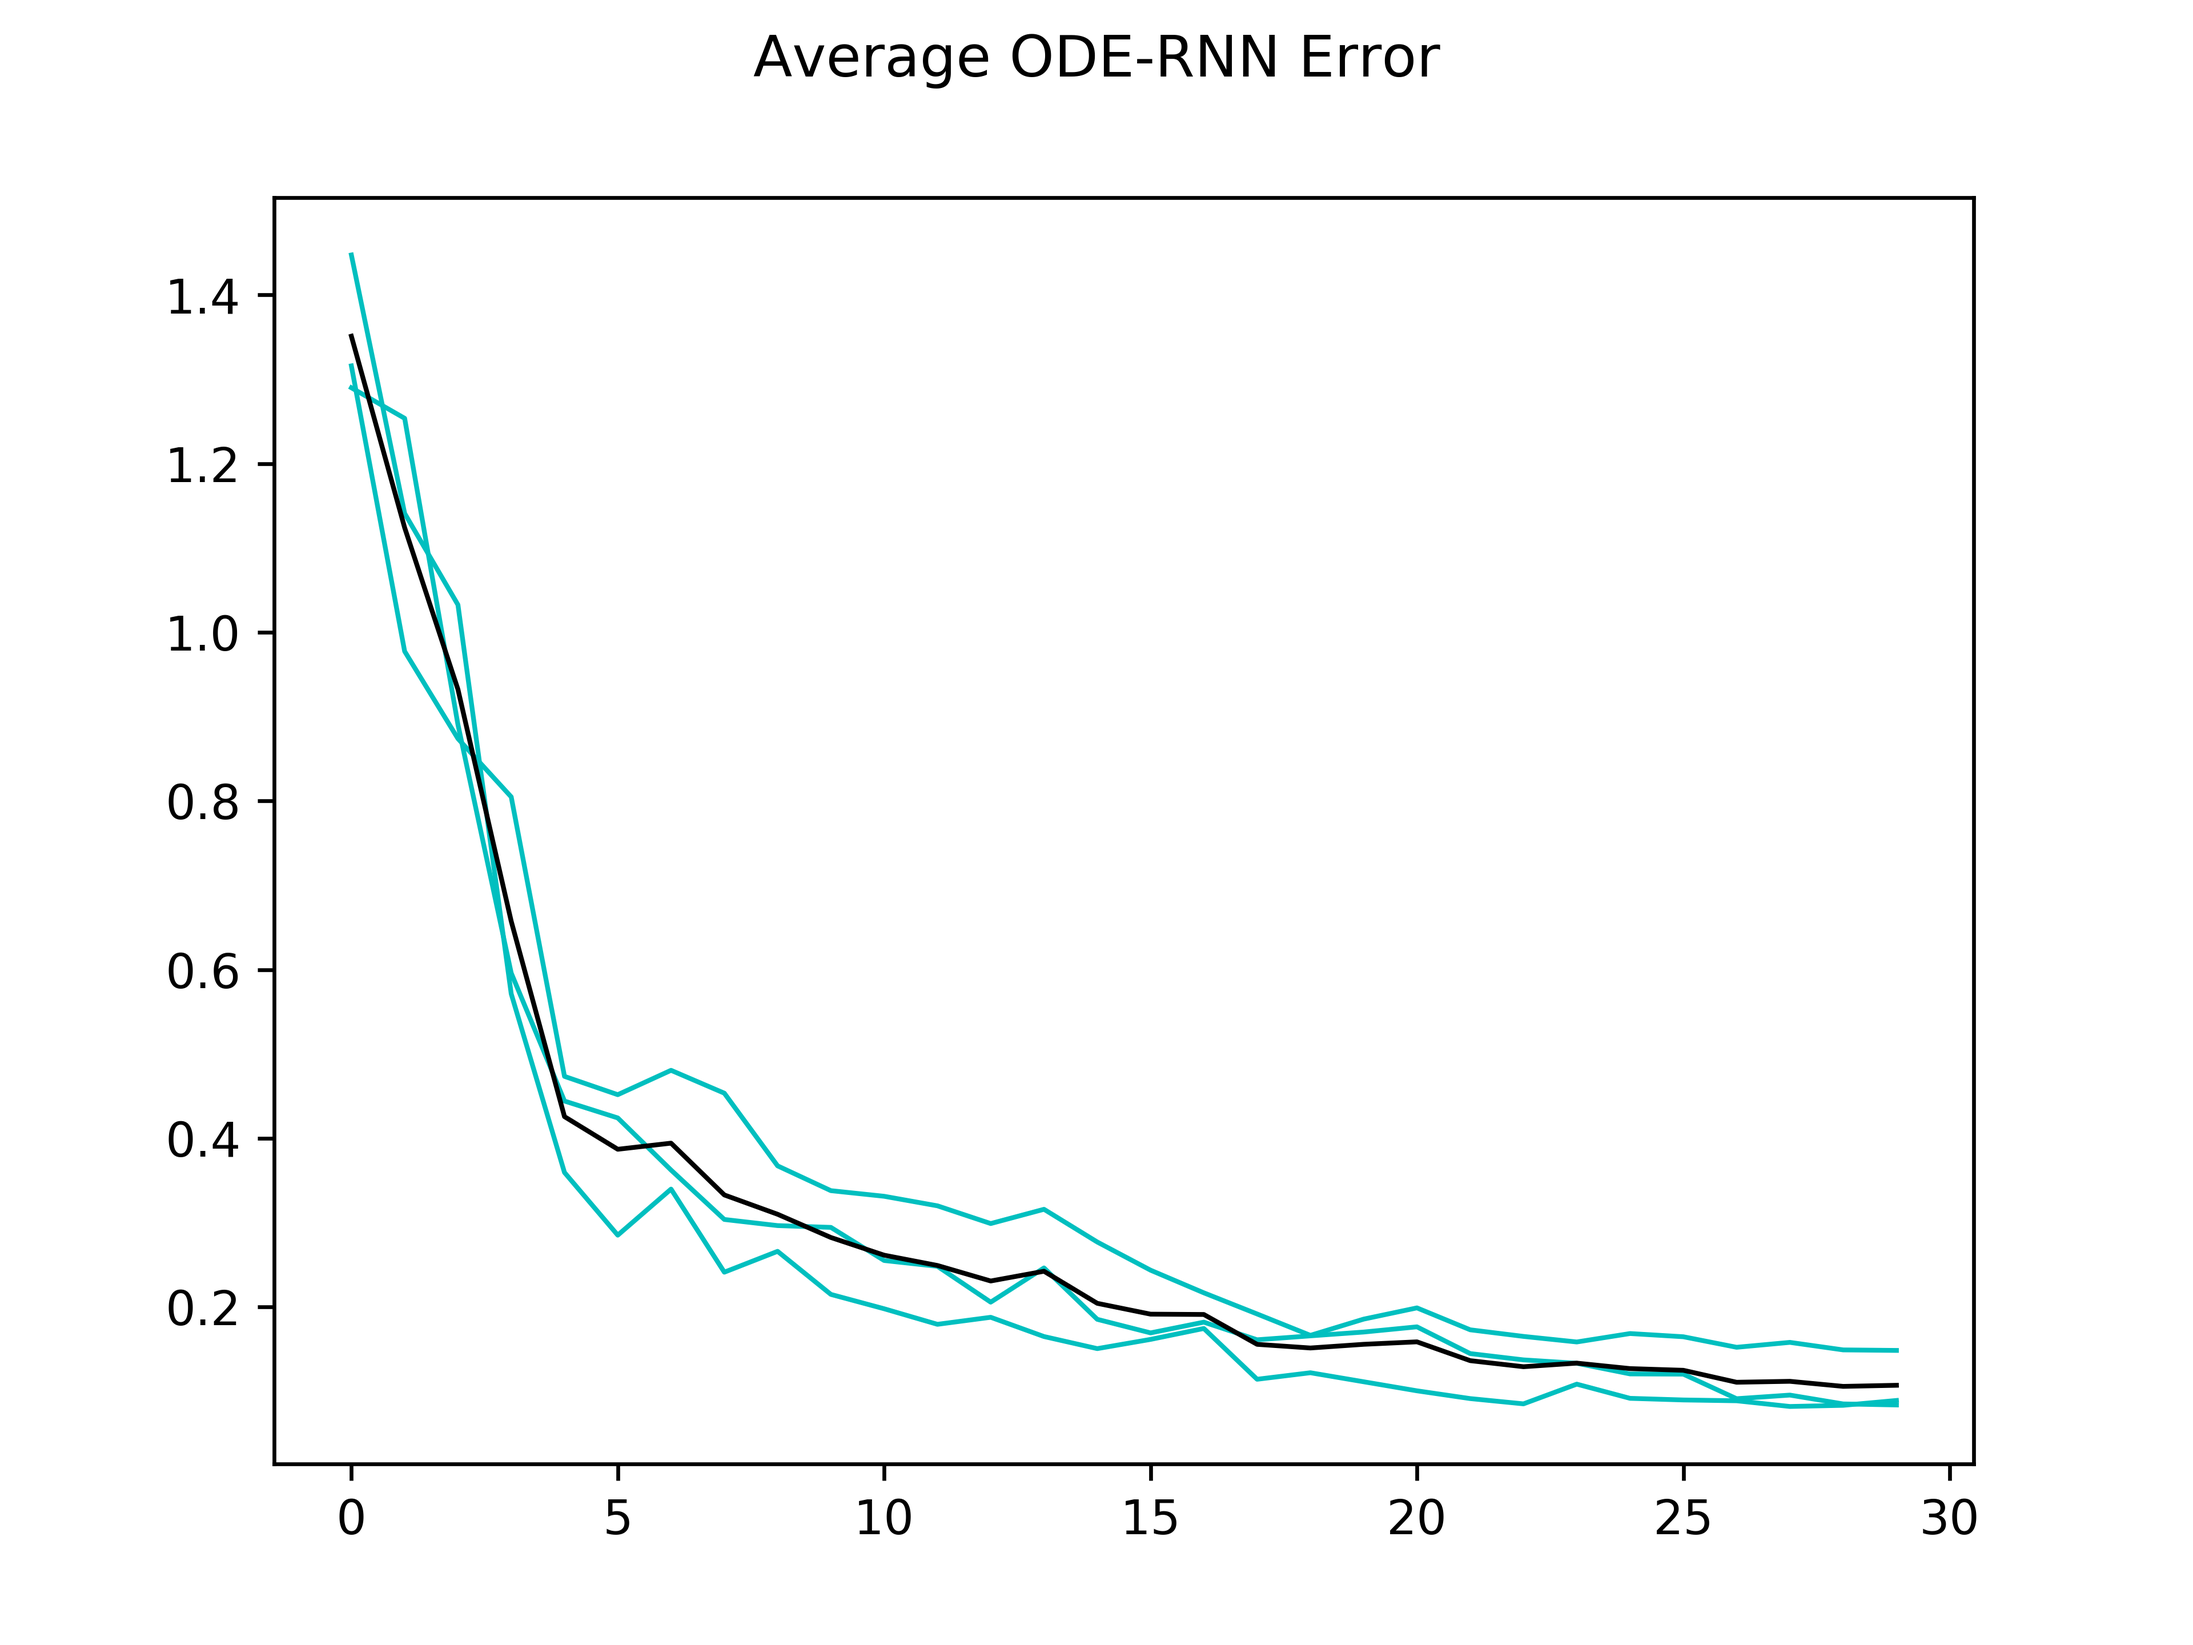
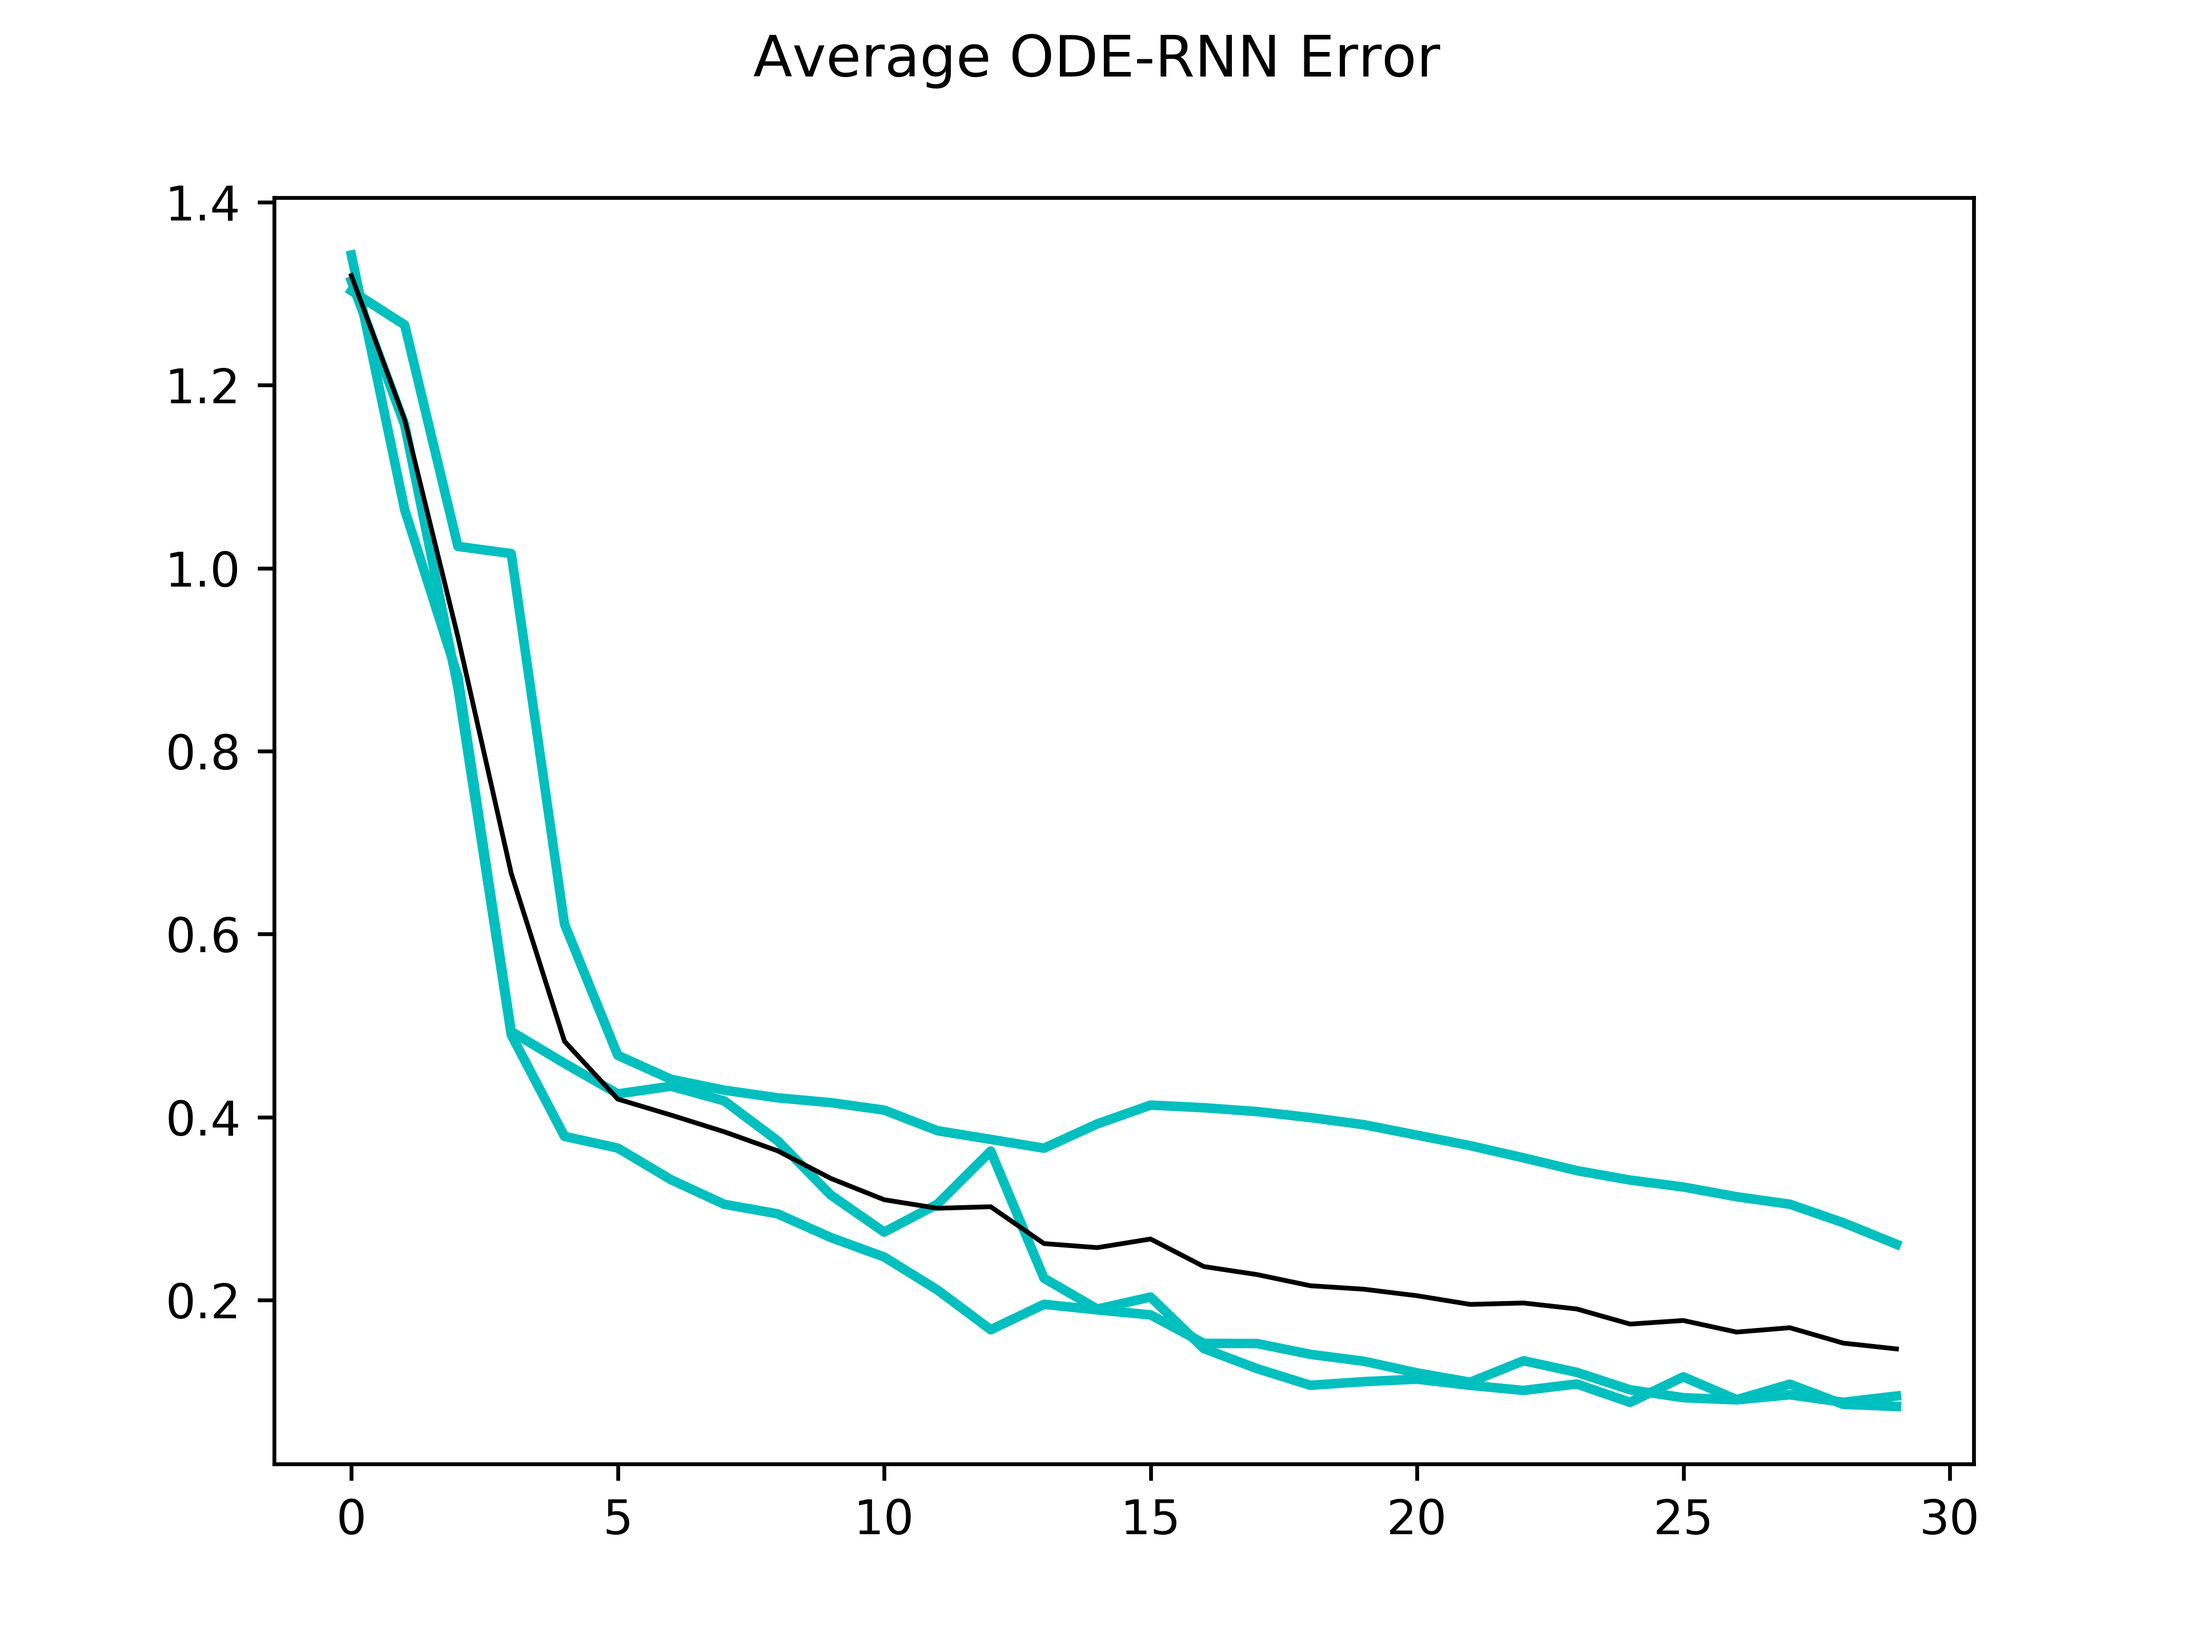
Added Random Coloring to Graphs

diff --git a/fig6.py b/fig6.py
@@ -4,6 +4,7 @@ import torch.nn as nn
 import torch.optim as optim
 import torch.functional as F
 
+import random
 import numpy as np
 import seaborn as sns
 import matplotlib.pyplot as plt
@@ -31,6 +32,11 @@ from networks.lstm_rnn import train as lstm_train
 
 from networks.gru_rnn import GRU_RNN as GRU_RNN
 from networks.gru_rnn import train as gru_train
+
+# Color graphing utility
+def random_color():
+    rgb = [random.uniform(0.0, 1.0), random.uniform(0.0, 1.0), random.uniform(0.0, 1.0)]
+    return tuple(rgb)
 
 # Function to map and plot crossbar map for a given model
 def plot_cmap(model):
@@ -87,13 +93,18 @@ def get_average_performance(iters, epochs, device_params, method, time_steps):
     loss_avg = [0] * epochs
     loss_history = []
 
+    colors = []
+
+    for i in range(iters):
+        colors.append(random_color())
+
     for i in range(iters):
 
         # Get current model output
         model, output, loss = build_model(epochs, data_gen, device_params, method, time_steps)
         loss_history.append(loss)
 
-        ax.plot3D(output[0], output[1], output[2], 'red')
+        ax.plot3D(output[0], output[1], output[2], color=colors[i], linewidth=1.5)
 
         for j in range(len(loss)):
             loss_avg[j] += loss[j]
@@ -113,9 +124,9 @@ def get_average_performance(iters, epochs, device_params, method, time_steps):
     ax.scatter3D(d1, d2, d3, 'gray')
 
     for i in range(iters):
-        ax_loss.plot(list(range(epochs)), loss_history[i], linewidth=1, color='c')        
+        ax_loss.plot(list(range(epochs)), loss_history[i], color=colors[i], linewidth=1)        
 
-    ax_loss.plot(list(range(epochs)), loss_avg, linewidth=1, color='black')
+    ax_loss.plot(list(range(epochs)), loss_avg, color='black', linewidth=1)
     fig.savefig('./output/training_avg.png', dpi=600, transparent=True)
 
     return fig, ax_loss
